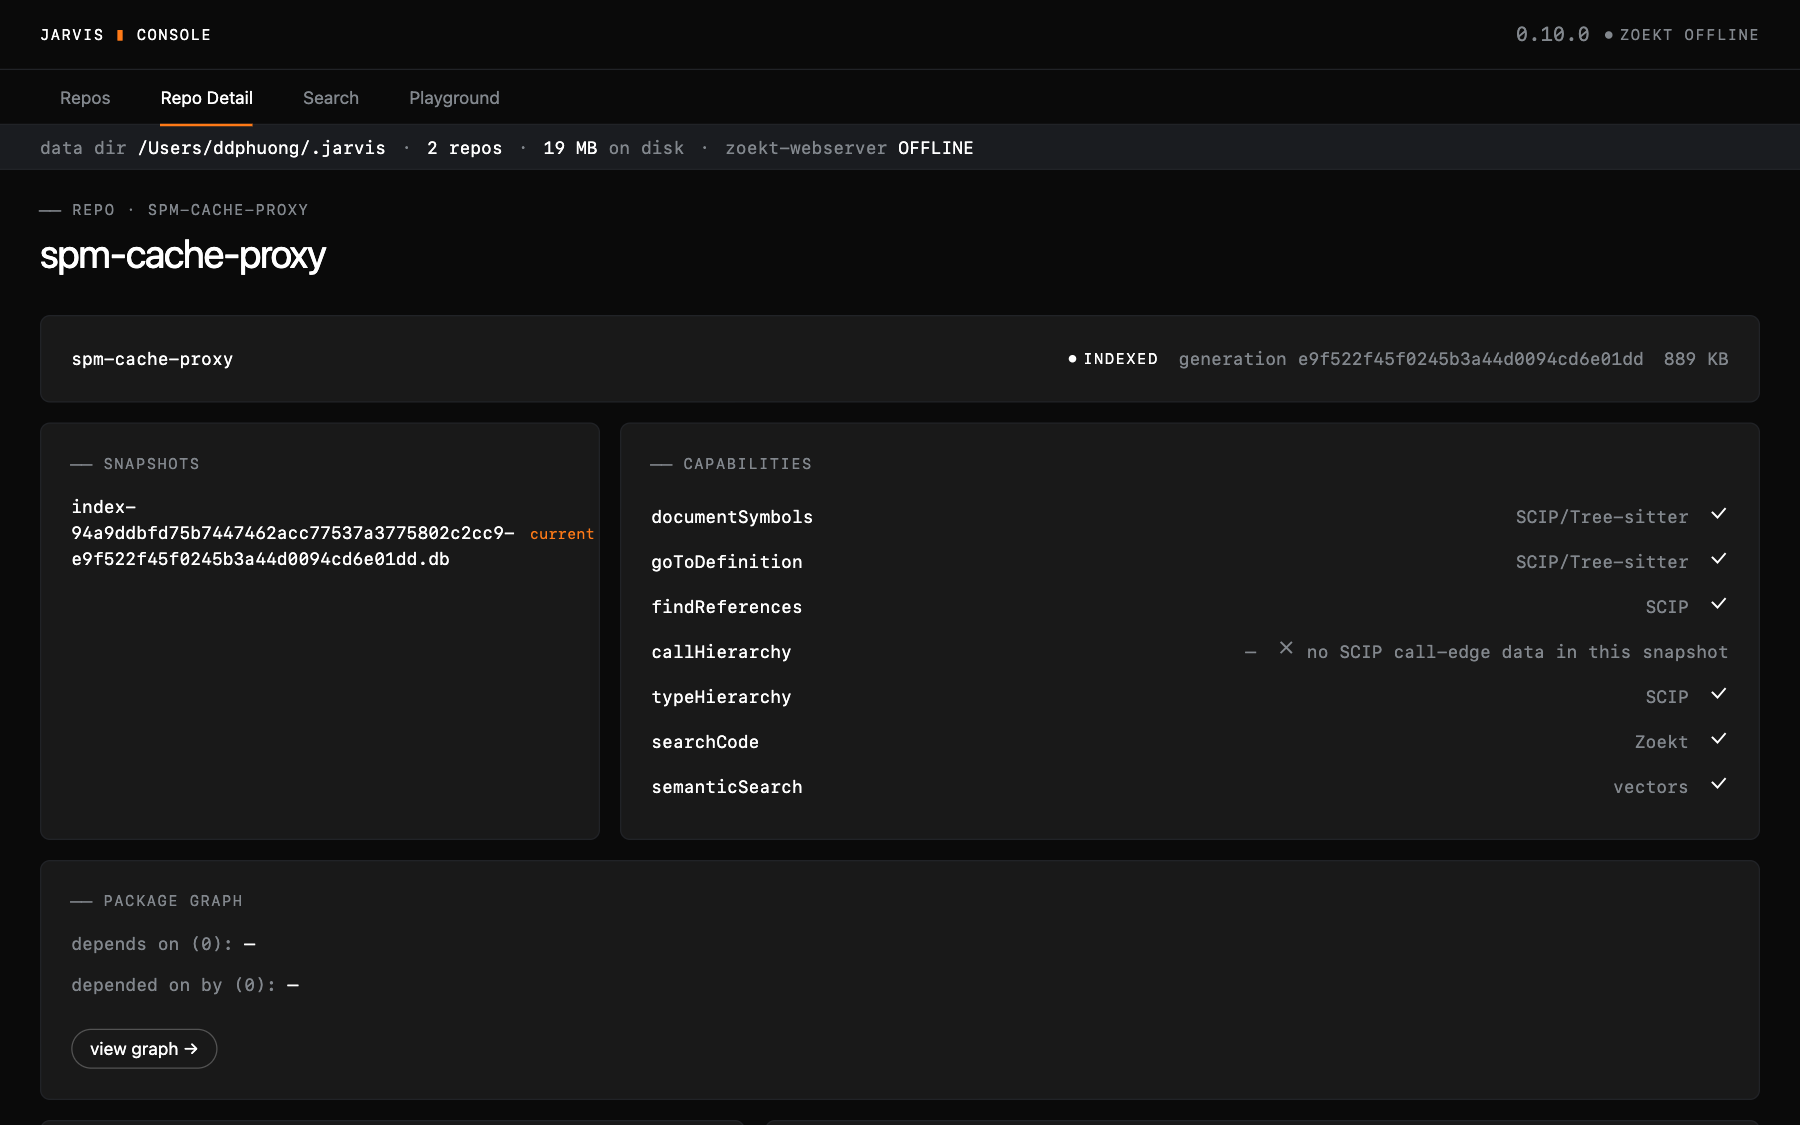
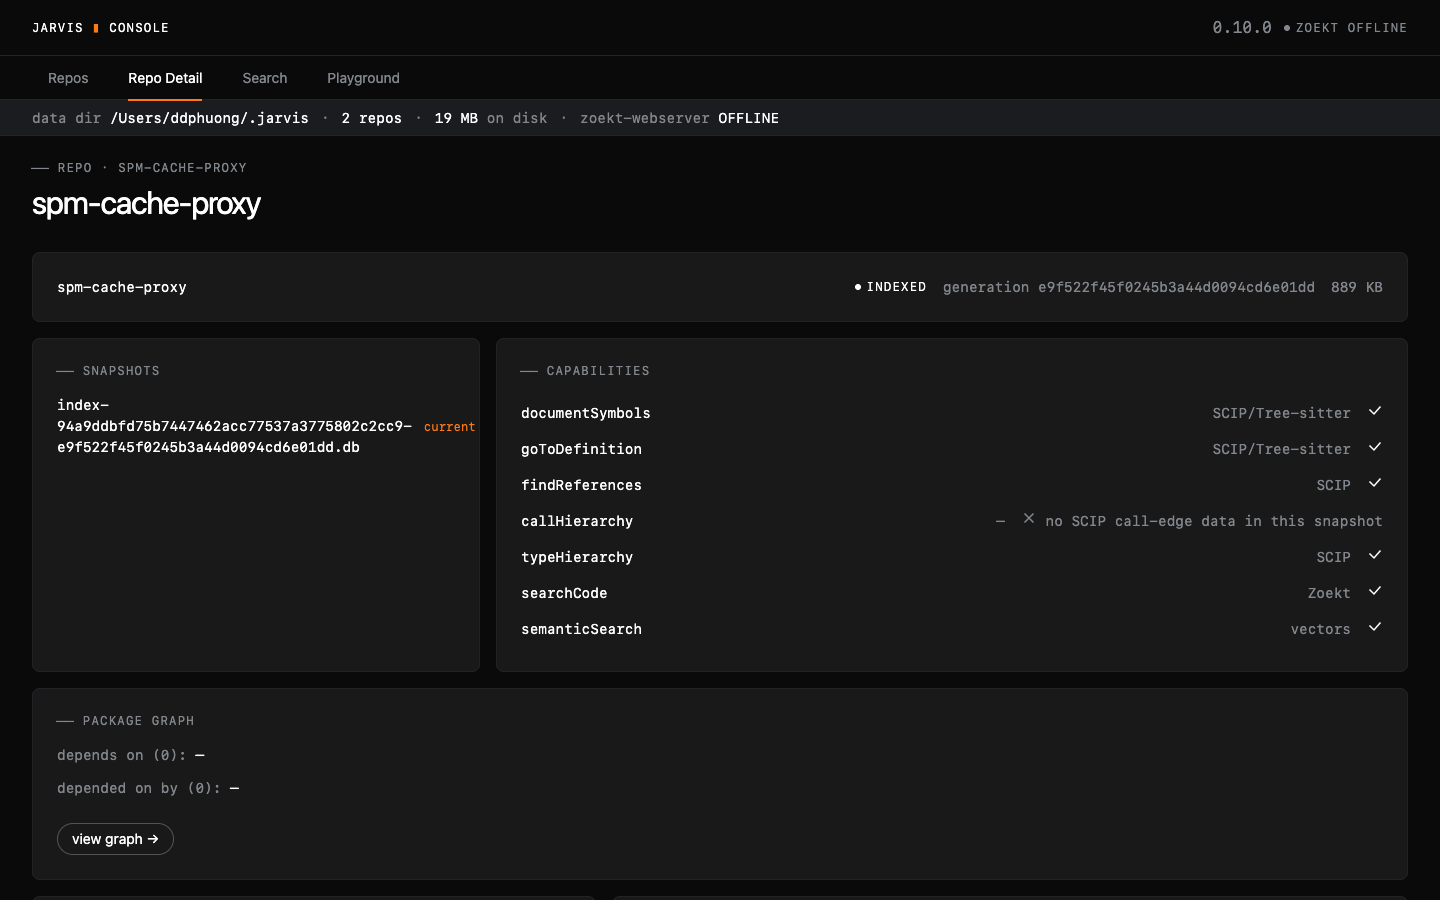
test(dashboard): drop redundant pre-poll sleep; recapture detail shot at 1440x900

diff --git a/tests/test_dashboard.py b/tests/test_dashboard.py
@@ -534,8 +534,6 @@ def test_search_semantic_busy_rejects_second_query(tmp_path: Path, monkeypatch):
         # surfaced through the per-signal error field, never a hang.
         second = srv.get("/api/search?q=two&repo=demo")
         assert second[0] == 200 and "busy" in second[1]["semanticError"]
-        # After the task finishes, the gate is released again.
-        time_mod.sleep(0.6)
         # After the task finishes, the gate is released again. Poll rather
         # than sleep a fixed amount: CI load can stretch the 0.5s task.
         deadline = time_mod.time() + 5
